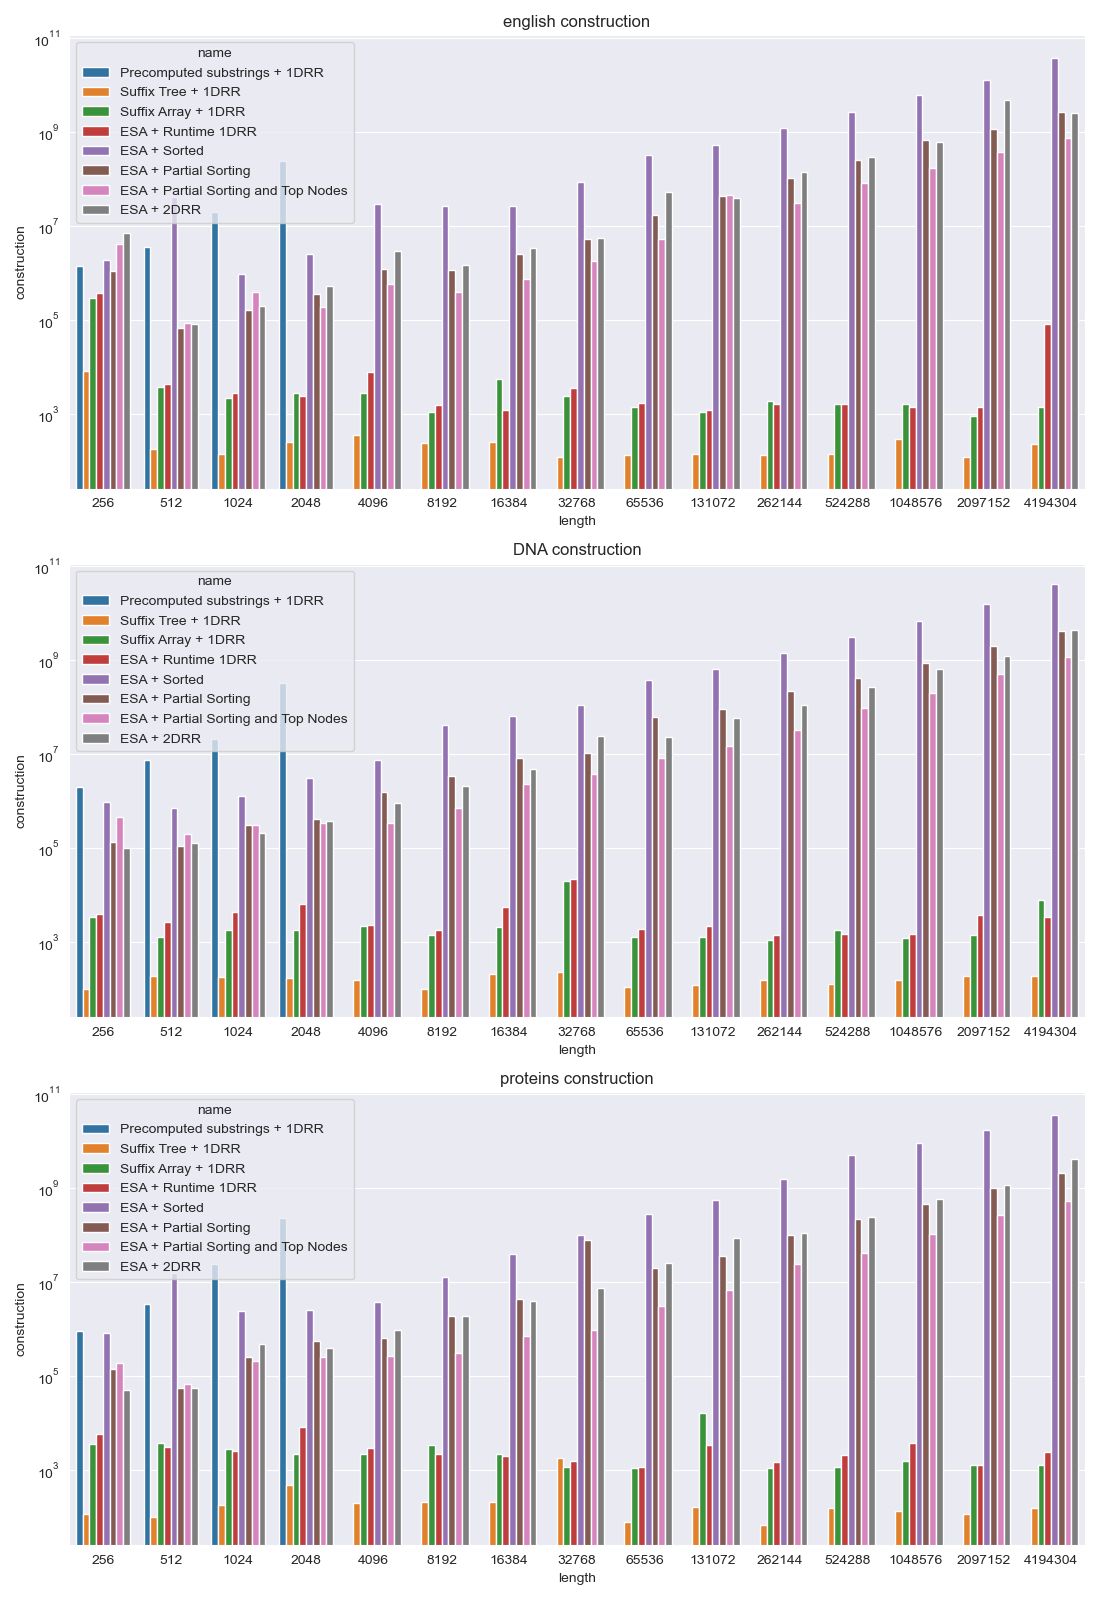
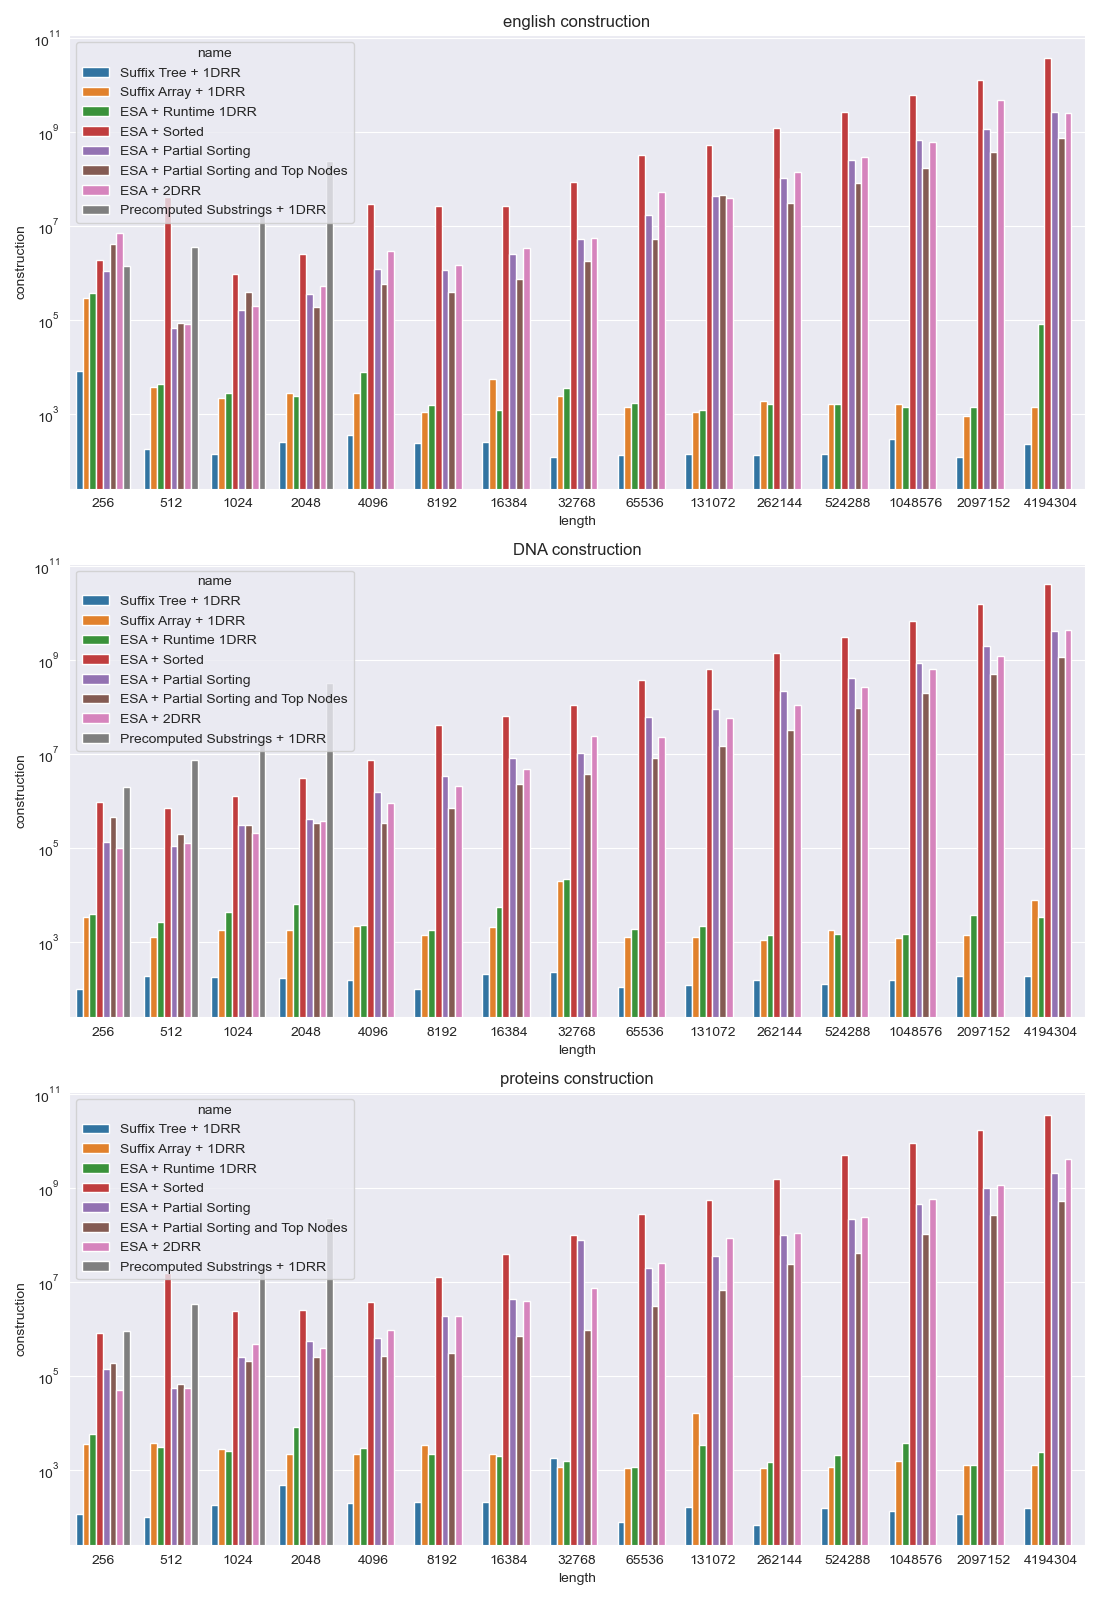
l

Changed region(s): [[0.0618, 0.0312, 0.9891, 0.3125], [0.0618, 0.6875, 0.9891, 0.9688], [0.0618, 0.375, 0.9891, 0.625]]

diff --git a/figures/createVariableReportingPlots.py b/figures/createVariableReportingPlots.py
@@ -10,14 +10,14 @@ data_structures = [f for f in os.listdir(path) if os.path.isfile(os.path.join(pa
 
 
 base_data_structures = {
+    "Precomputed Substrings + 1DRR": 'Variable_Report_PreComp_1DRP.csv',
     "ESA + 2DRR": 'Variable_Report_ESA_KdTrees.csv',
     "ESA + Partial Sorting and Top Nodes": 'Variable_Report_PartialSort_TopNodes.csv',
     "ESA + Partial Sorting": 'Variable_Report_PartialSort.csv',
     "ESA + Sorted": 'Variable_Report_ESA_Sorted.csv',
     "ESA + Runtime 1DRR": 'Variable_Report_ESA_Runtime.csv',
     "Suffix Array + 1DRR": 'Variable_Report_SA_Runtime.csv',
-    "Suffix Tree + 1DRR": 'Variable_Report_SuffixTree_1DRP.csv',
-    "Precomputed substrings + 1DRR": 'Variable_Report_PreComp_1DRP.csv'
+    "Suffix Tree + 1DRR": 'Variable_Report_SuffixTree_1DRP.csv'
 }
 
 """

diff --git a/figures/createFixedReportingPlots.py b/figures/createFixedReportingPlots.py
@@ -7,12 +7,12 @@ import matplotlib.pyplot as plt
 
 path = os.getcwd() + '\\Results\\'
 data_structures = {
+    "Precomputed Substrings + Hashing": 'Fixed_Report_PreComp_Hash.csv',
     "ESA + Partial Hashing": 'Fixed_Report_ESA_PartialHash.csv',
     "ESA + Hashed": 'Fixed_Report_ESA_Hashed.csv',
     "ESA + Runtime Hashing": 'Fixed_Report_ESA_Runtime.csv',
     "SA + Runtime Hashing": 'Fixed_Report_SA_Runtime.csv',
-    "Suffix tree": 'Fixed_Report_SuffixTree_Hash.csv',
-    "Precomputed substring": 'Fixed_Report_PreComp_Hash.csv'
+    "Suffix Tree + Runtime Hashing": 'Fixed_Report_SuffixTree_Hash.csv'
 }
 
 sns.set_style('darkgrid')
